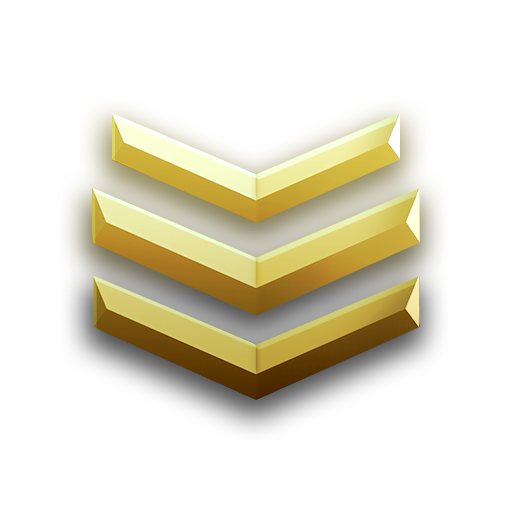
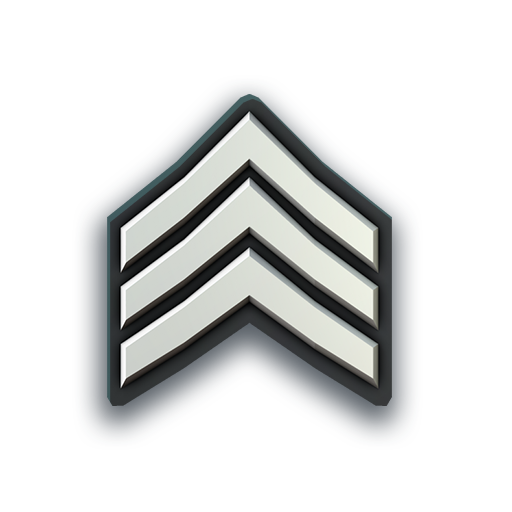
v0.0.17 ranks: new Dog-Ear I–III insignia (silver upward chevrons replace the gold ones)
Claude-Session: https://claude.ai/code/session_01WVtVwSA278bNE4nXGcRcZg

diff --git a/assets/ranks/README.md b/assets/ranks/README.md
@@ -7,7 +7,7 @@ named `<rank-id>-<level>.png`. They are wired into the game once every batch has
 |---|---|---|---|---|
 | 1 | Blank Page | Recruit | I–III (three only) | `blank-page-1.png` (one bronze chevron), `blank-page-2.png` (two), `blank-page-3.png` (three) |
 | 2 | Scribbler | Private | I–III (three only) | `scribbler-1.png` (one bronze upward chevron, dark outline), `scribbler-2.png` (two), `scribbler-3.png` (three) |
-| 3 | Dog-Ear | Private First Class | I–III (three only) | `dog-ear-1.png` (one gold chevron), `dog-ear-2.png` (two), `dog-ear-3.png` (three) |
+| 3 | Dog-Ear | Private First Class | I–III (three only) | `dog-ear-1.png` (one silver upward chevron, dark outline), `dog-ear-2.png` (two), `dog-ear-3.png` (three) |
 | 11 | Valedictorian | Colonel | I–III: bronze, silver, gold thin wings | `valedictorian-1.png` (bronze), `valedictorian-2.png` (silver), `valedictorian-3.png` (gold) |
 | 12 | Head of the Class | General | I–III: bronze, silver, gold thick wings | `head-of-the-class-1.png` (bronze), `head-of-the-class-2.png` (silver), `head-of-the-class-3.png` (gold) |
 | ∞ | Honor Roll | Marshal | One insignia, plus stars | `honor-roll.png` (gold swept wings) |
